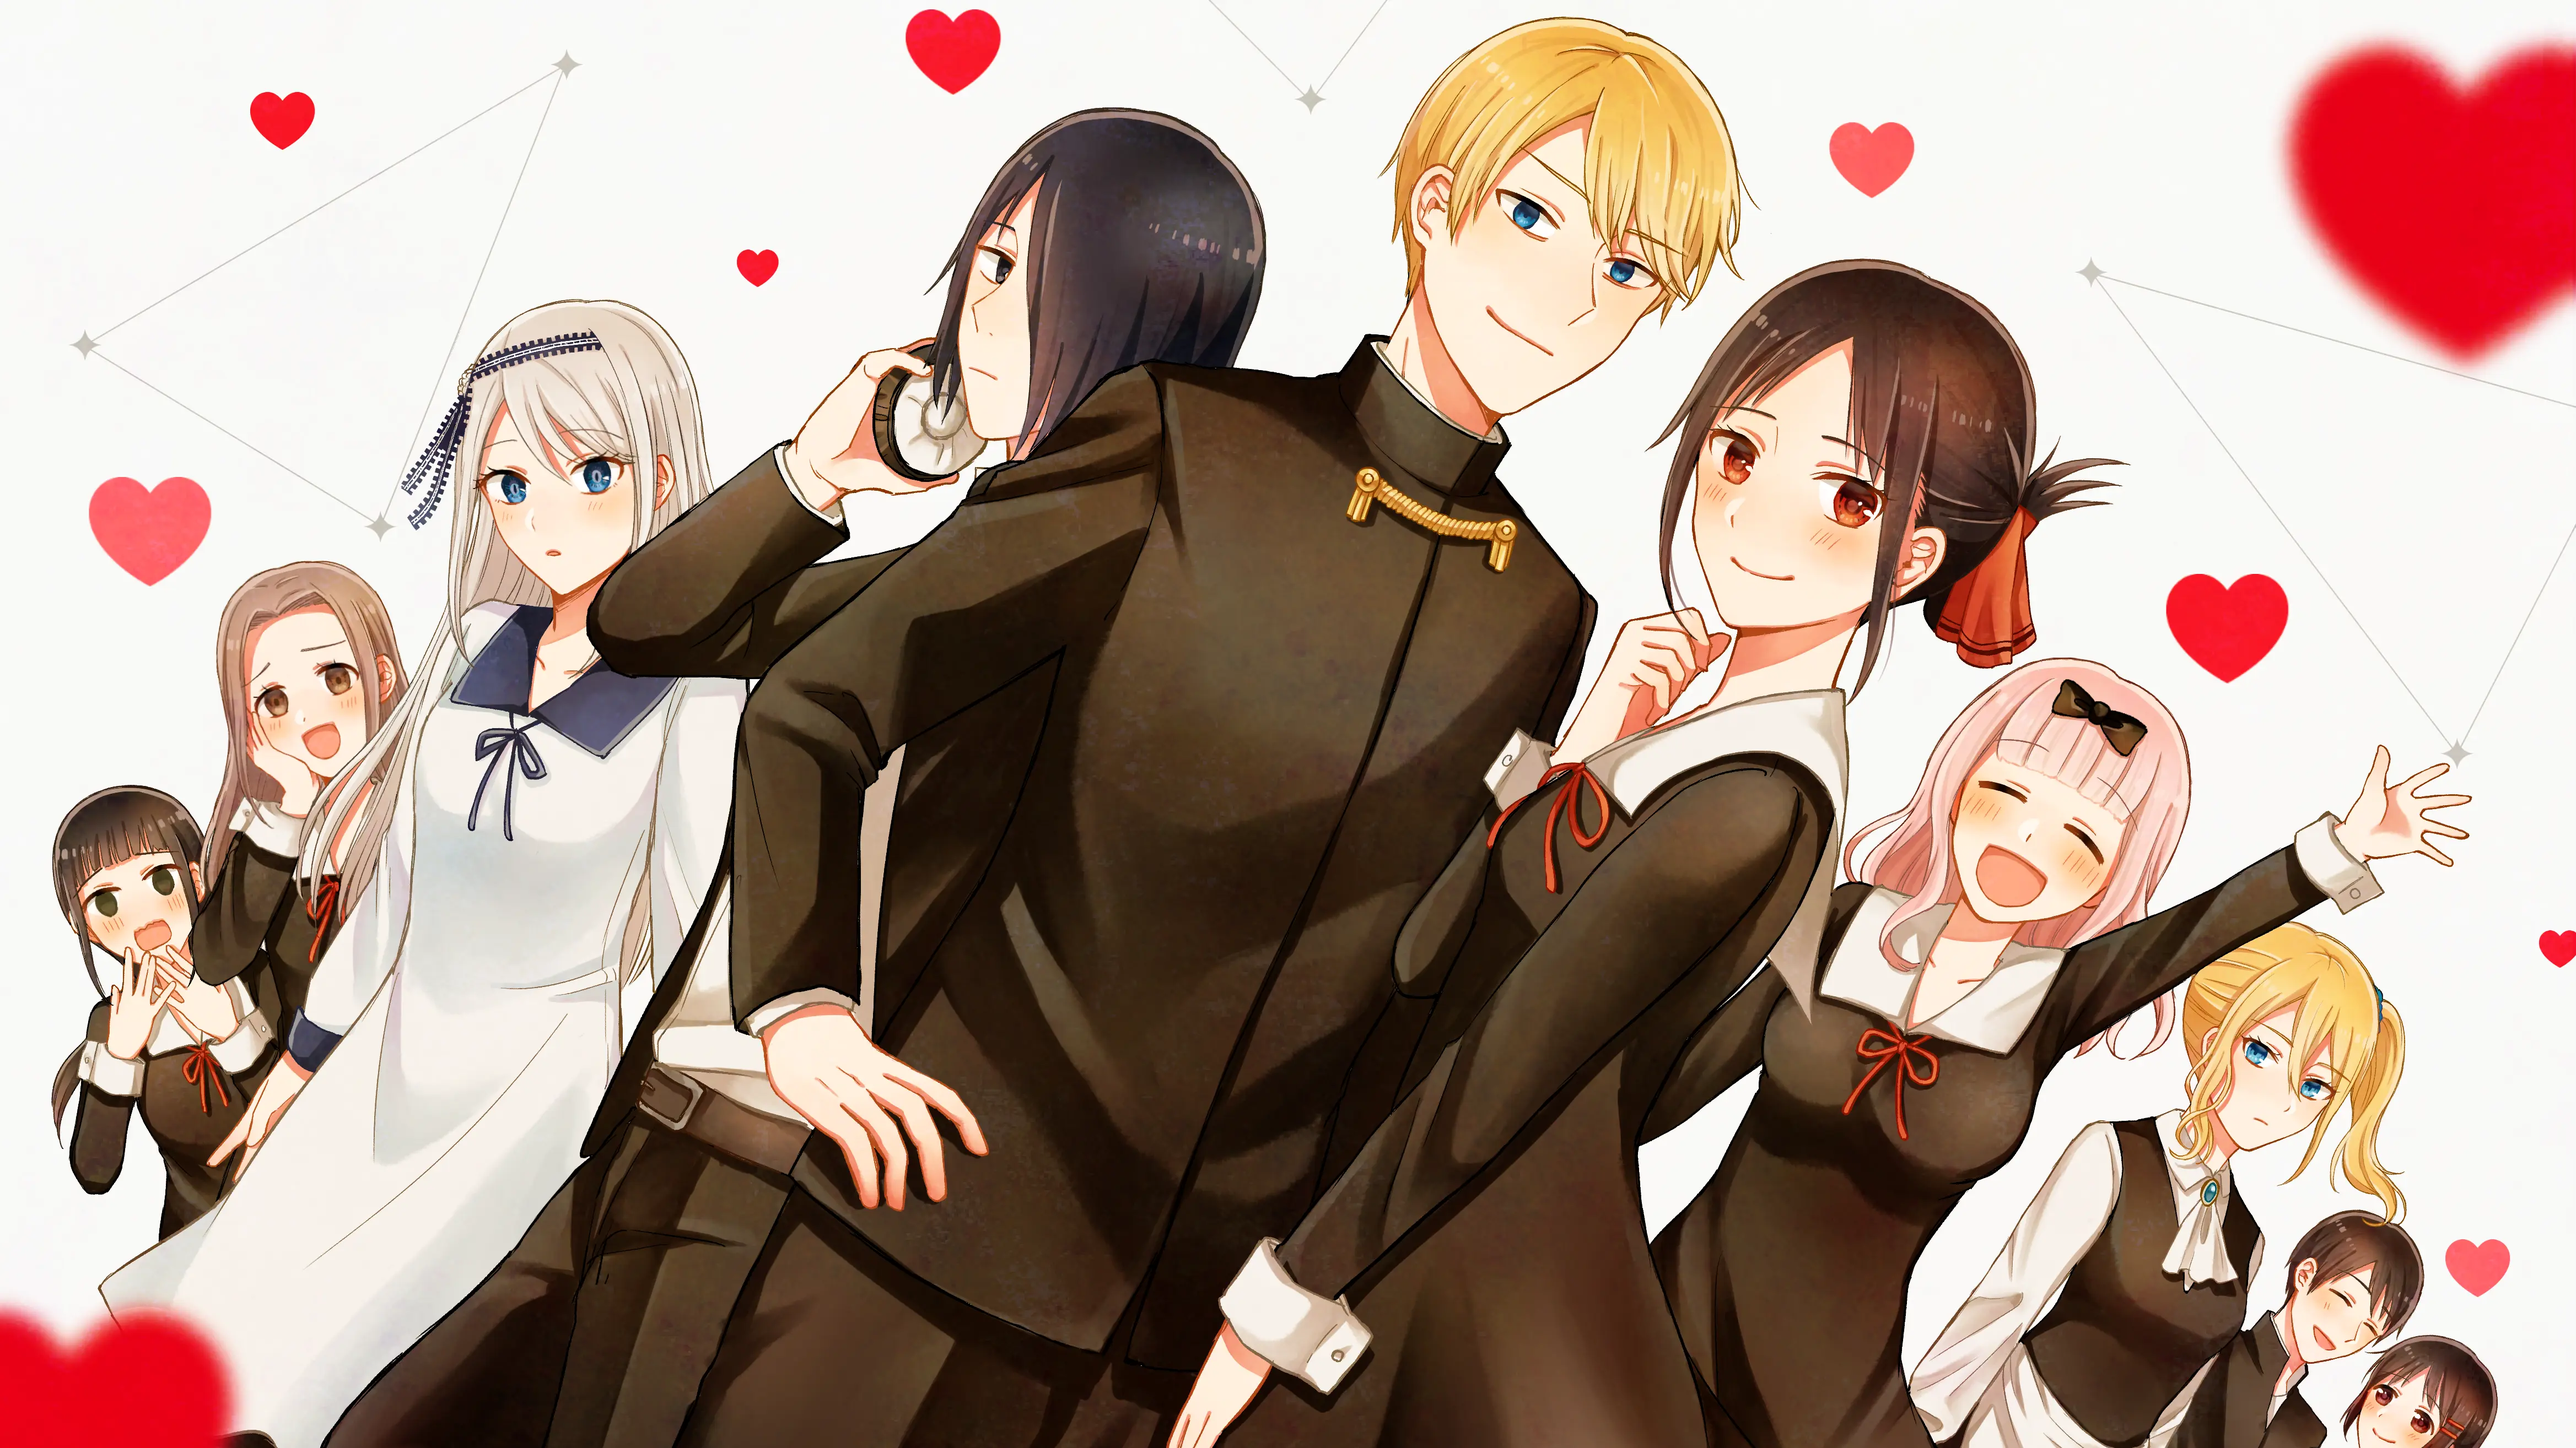
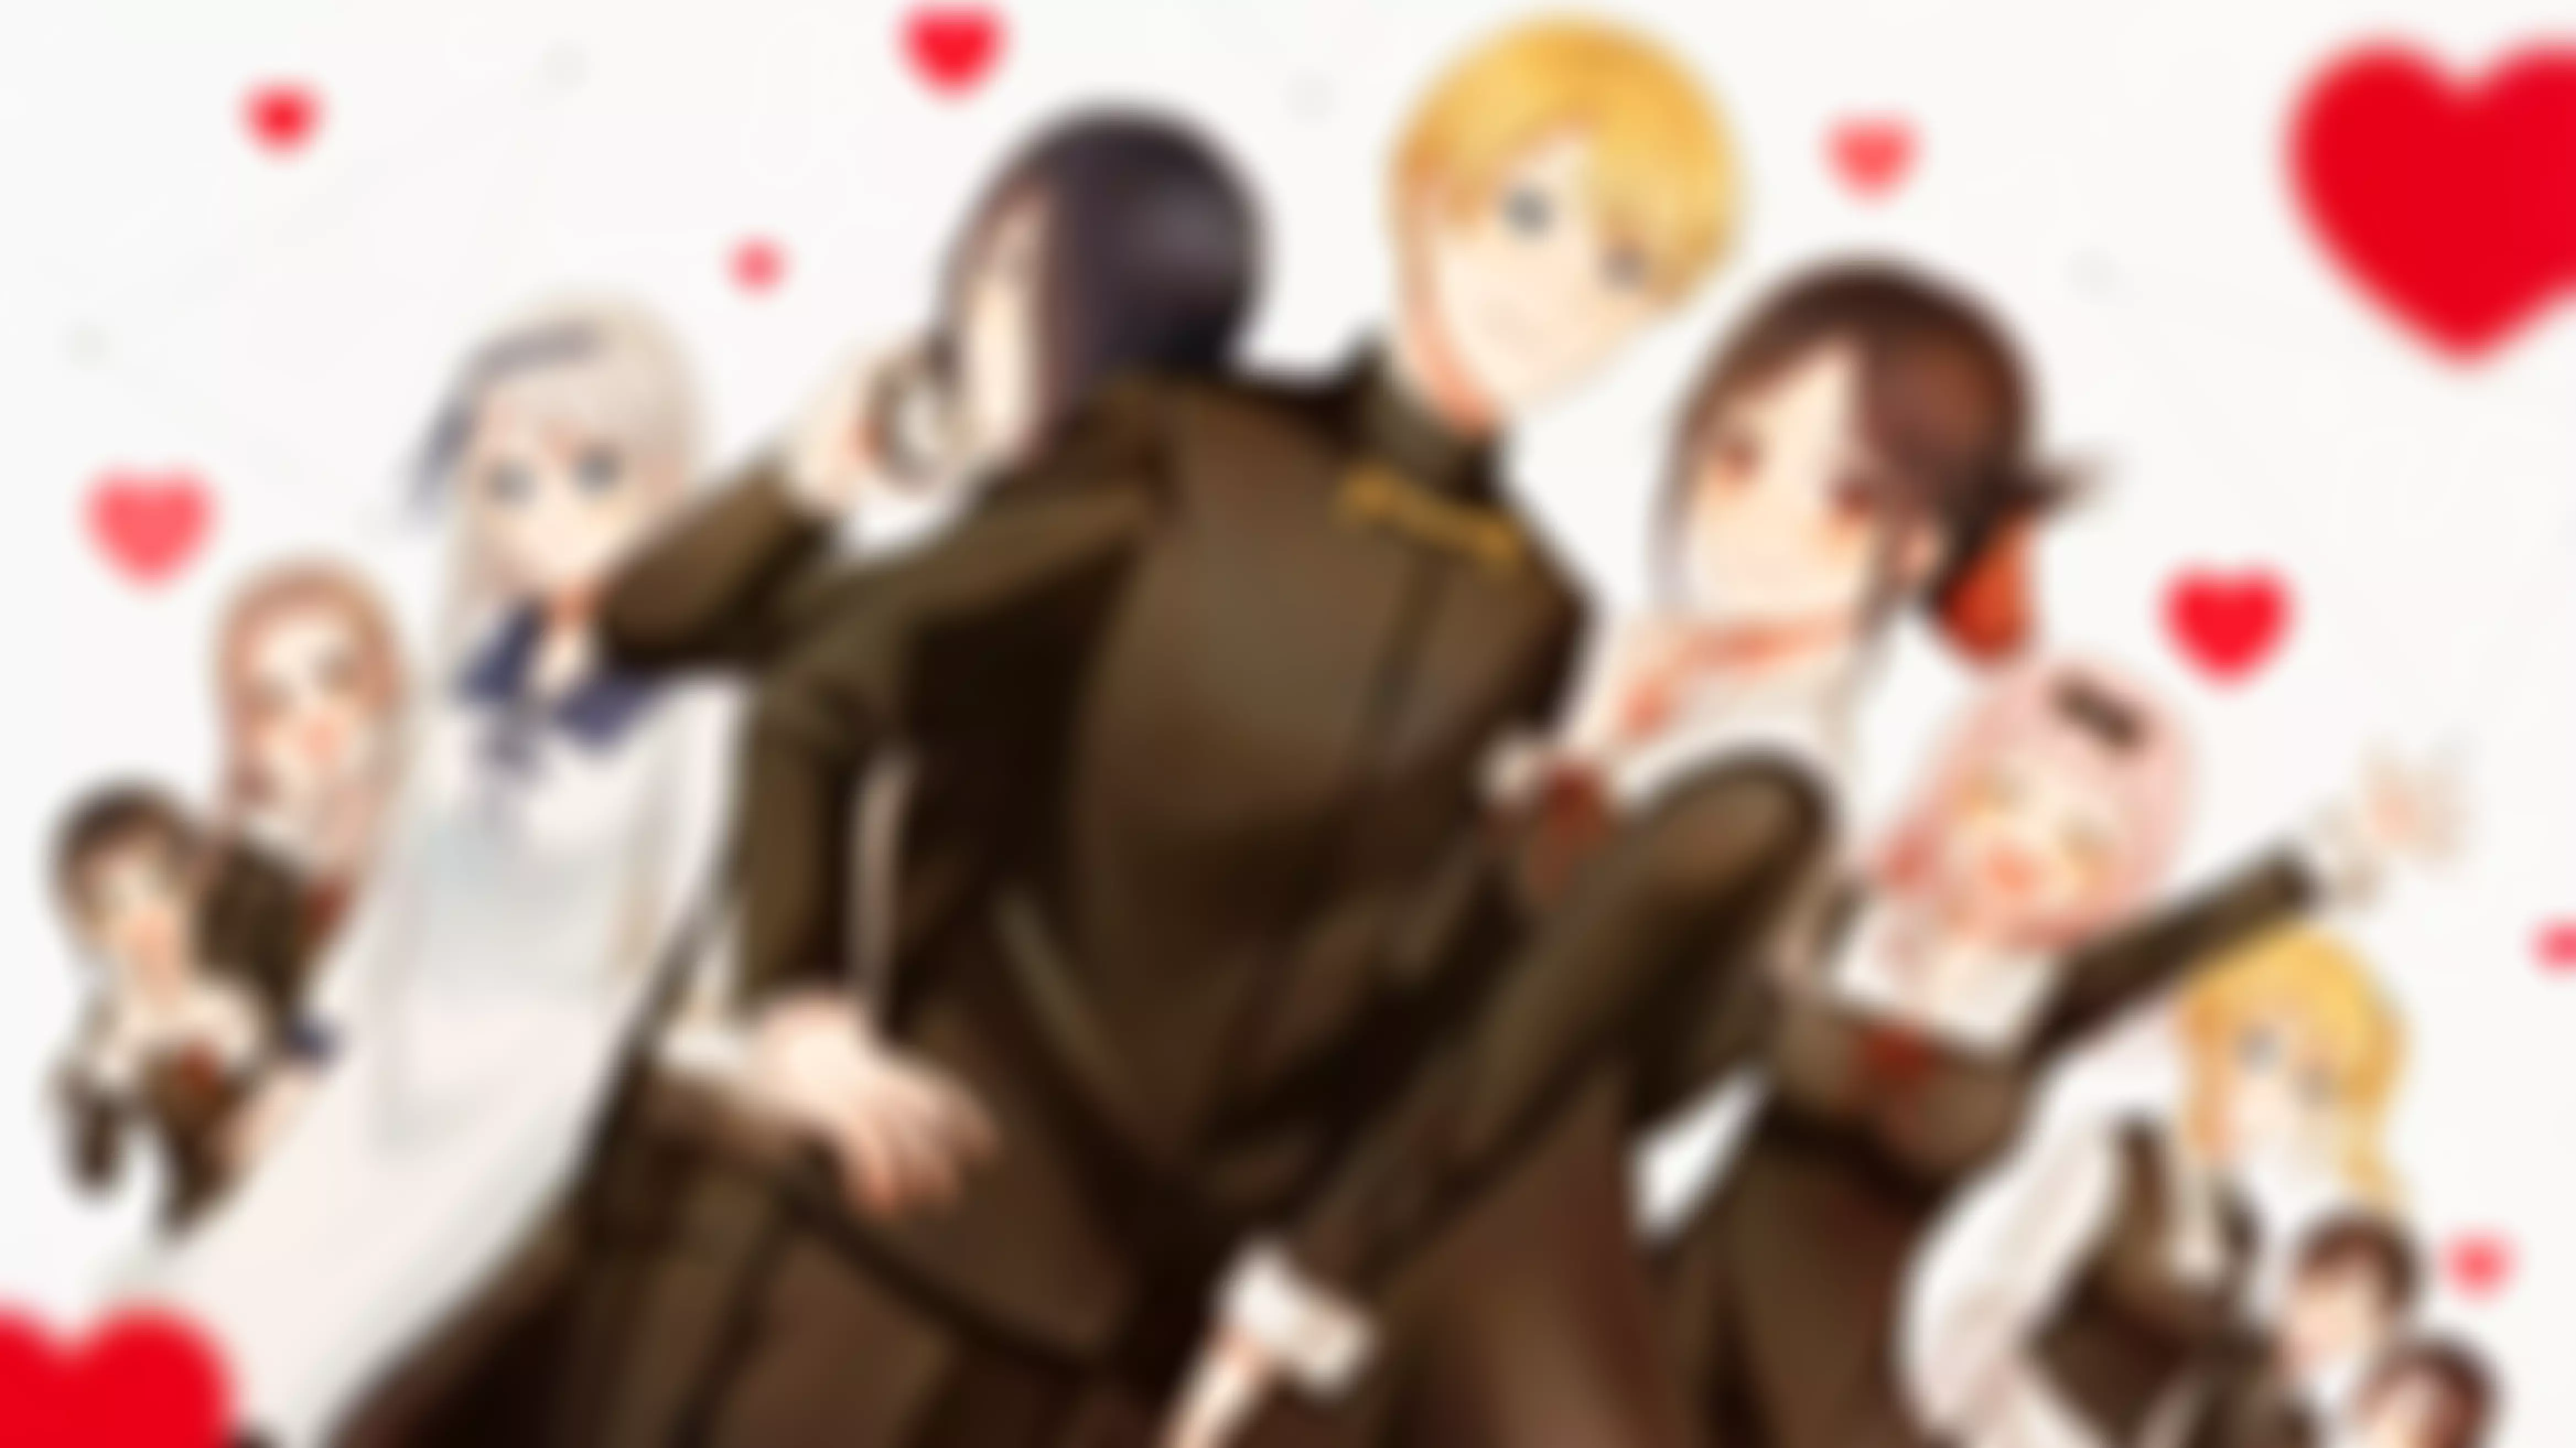
feat: algumas alterações

diff --git a/css/estilos globais.css b/css/estilos globais.css
@@ -9,16 +9,22 @@
   position: fixed;
   width: 100vw;
   background-image: url("/media/background.webp");
-  filter: blur(12px);
+  /*filter: blur(12px);*/
   background-size: cover;
   background-repeat: no-repeat;
-  animation: background-change 12s;
+
   animation-iteration-count: infinite;
   animation-direction: alternate-reverse;
   position: fixed;
 }
 .page-content {
   position: relative;
+}
+
+@media only screen and (min-width: 991px) {
+  .background-changer {
+    animation: background-change 18s;
+  }
 }
 
 @keyframes background-change {

diff --git a/anime_detalhes.php b/anime_detalhes.php
@@ -65,7 +65,7 @@ require_once "classes/anime.php";
           <h2><?php echo $unicoAnime->anim_nome; ?></h2>
           <span><b>Autor:</b> <?php echo $unicoAnime->anim_autor; ?></span><br />
           <span><b>Gênero:</b> <?php echo $unicoAnime->genr_nome; ?></span><br />
-          <span><b>Data de Lançamento:</b> <?php echo $unicoAnime->anim_dt_lancamento ?></span><br />
+          <span><b>Data de Lançamento:</b> <?php echo strftime("%d de %B de %Y", strtotime($unicoAnime->anim_dt_lancamento)) ?></span><br />
           <span><b>Quantidade de Temporadas:</b> <?php echo $unicoAnime->anim_quantidade_temporadas; ?></span><br />
 
           <span><b>Quantidade de Episódios:</b> <?php echo $unicoAnime->anim_quantidade_episodios; ?></span><br />
